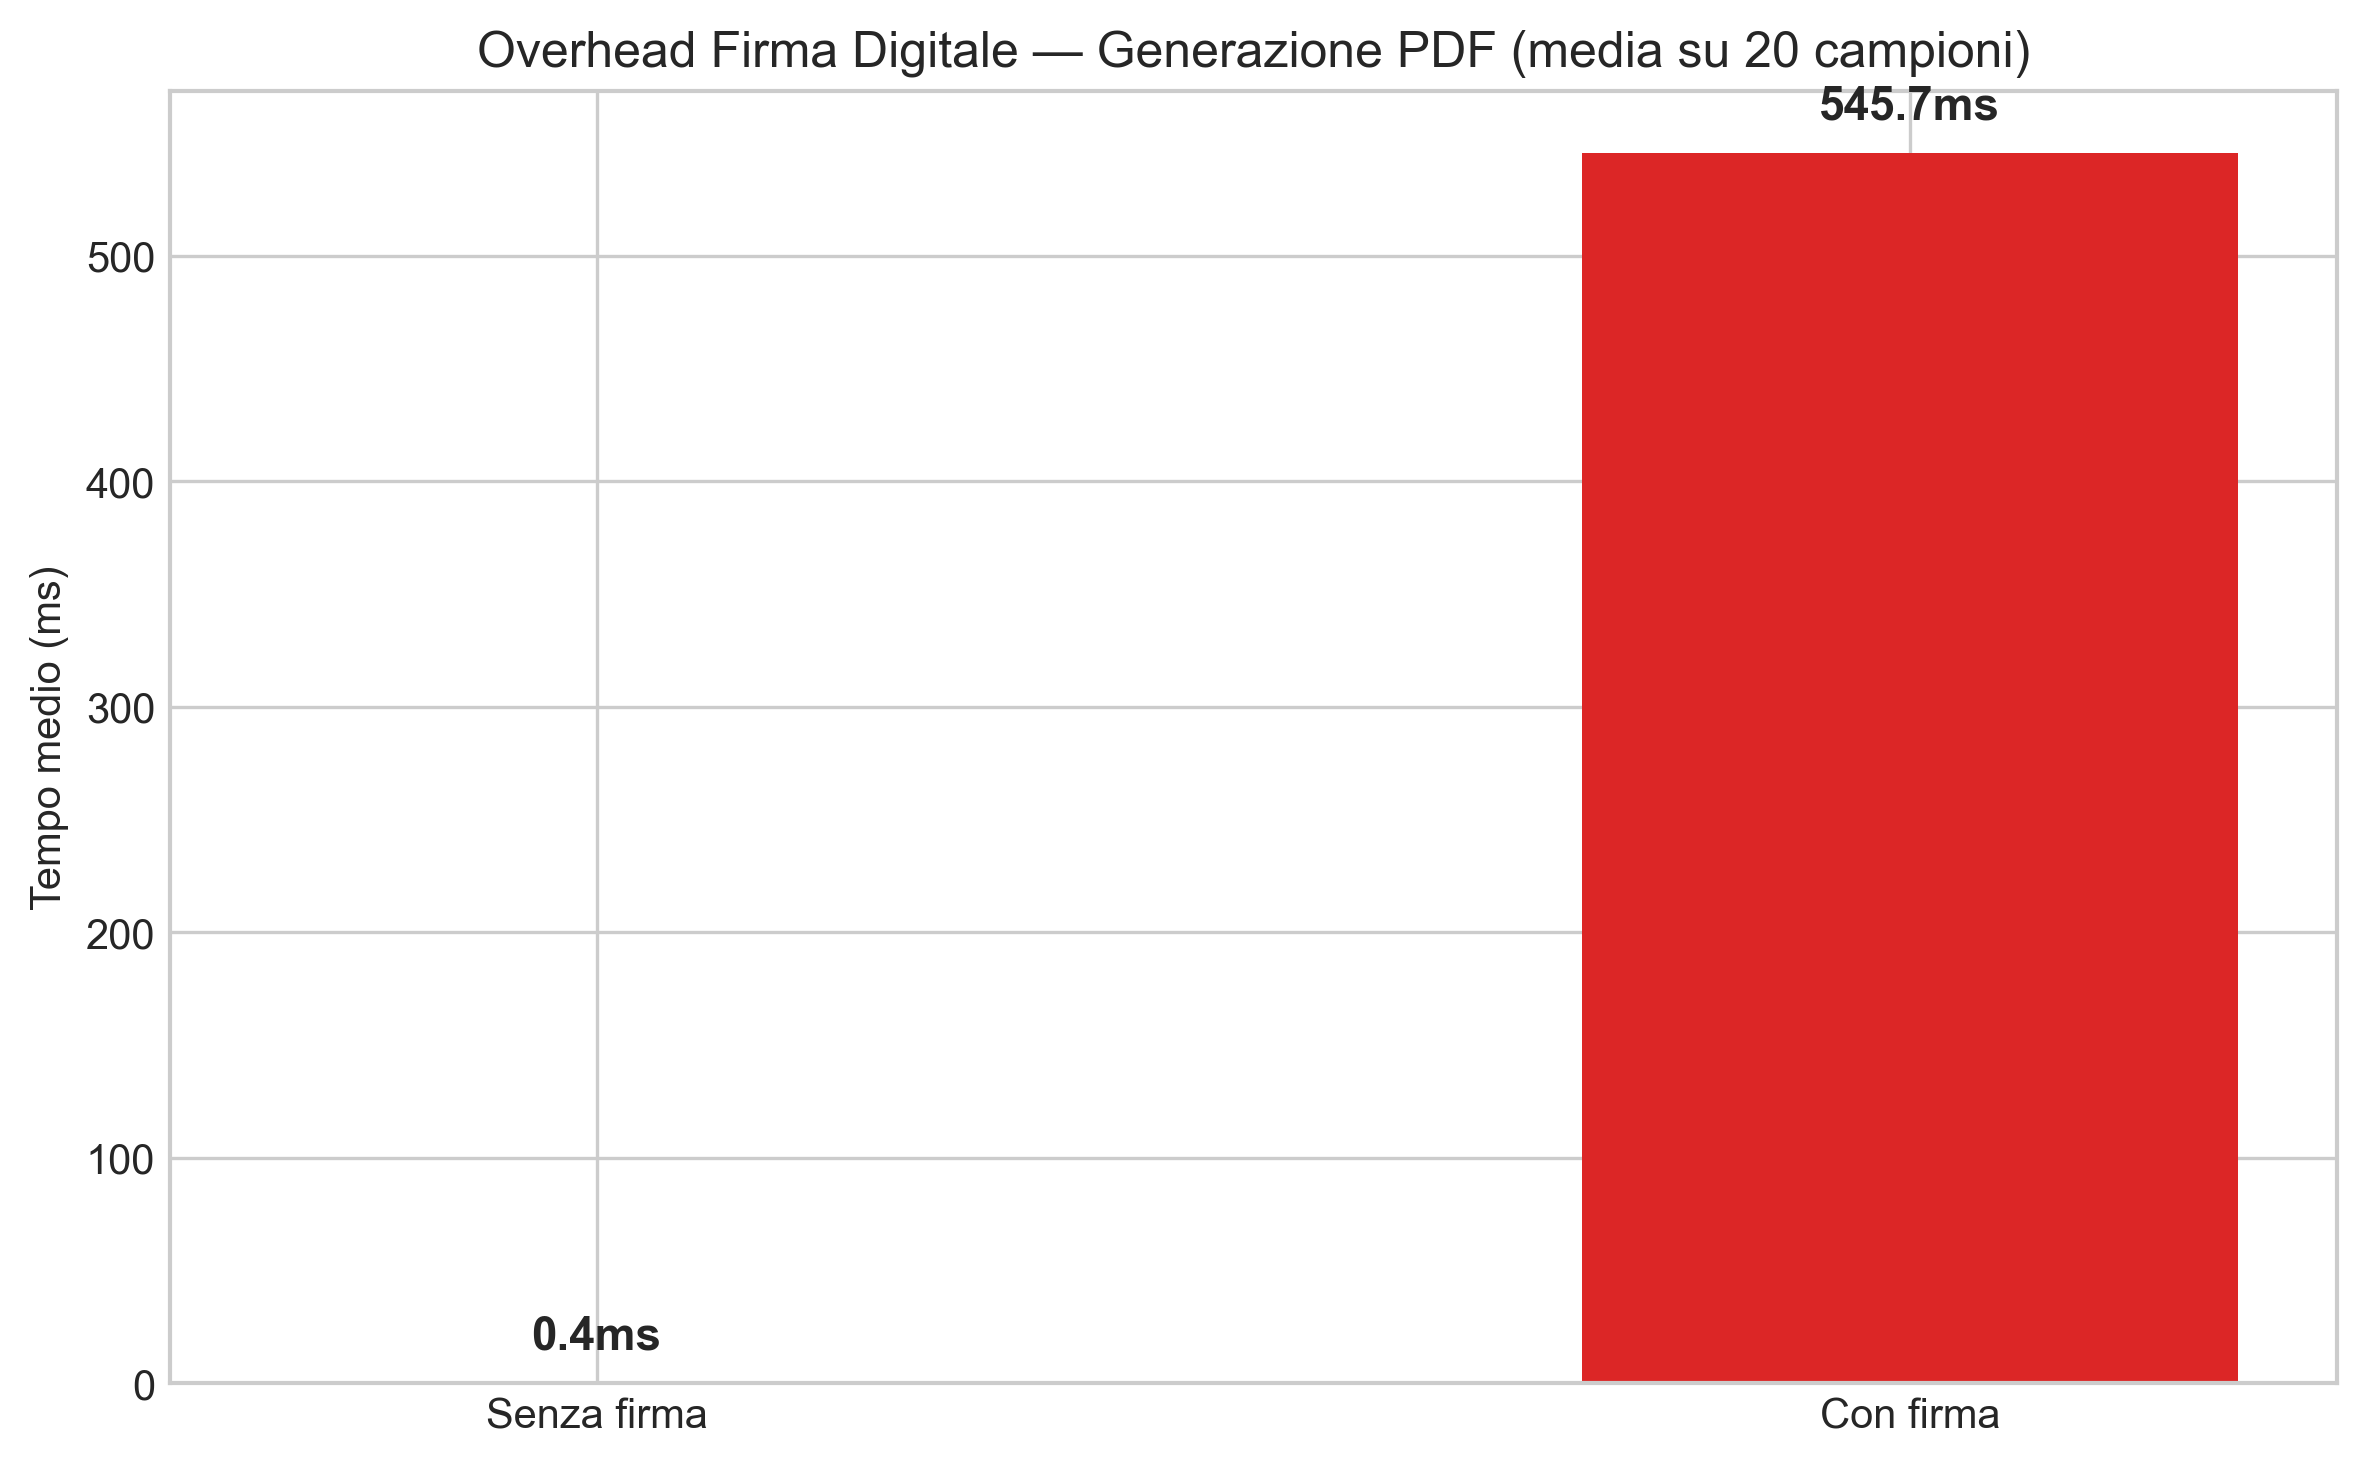
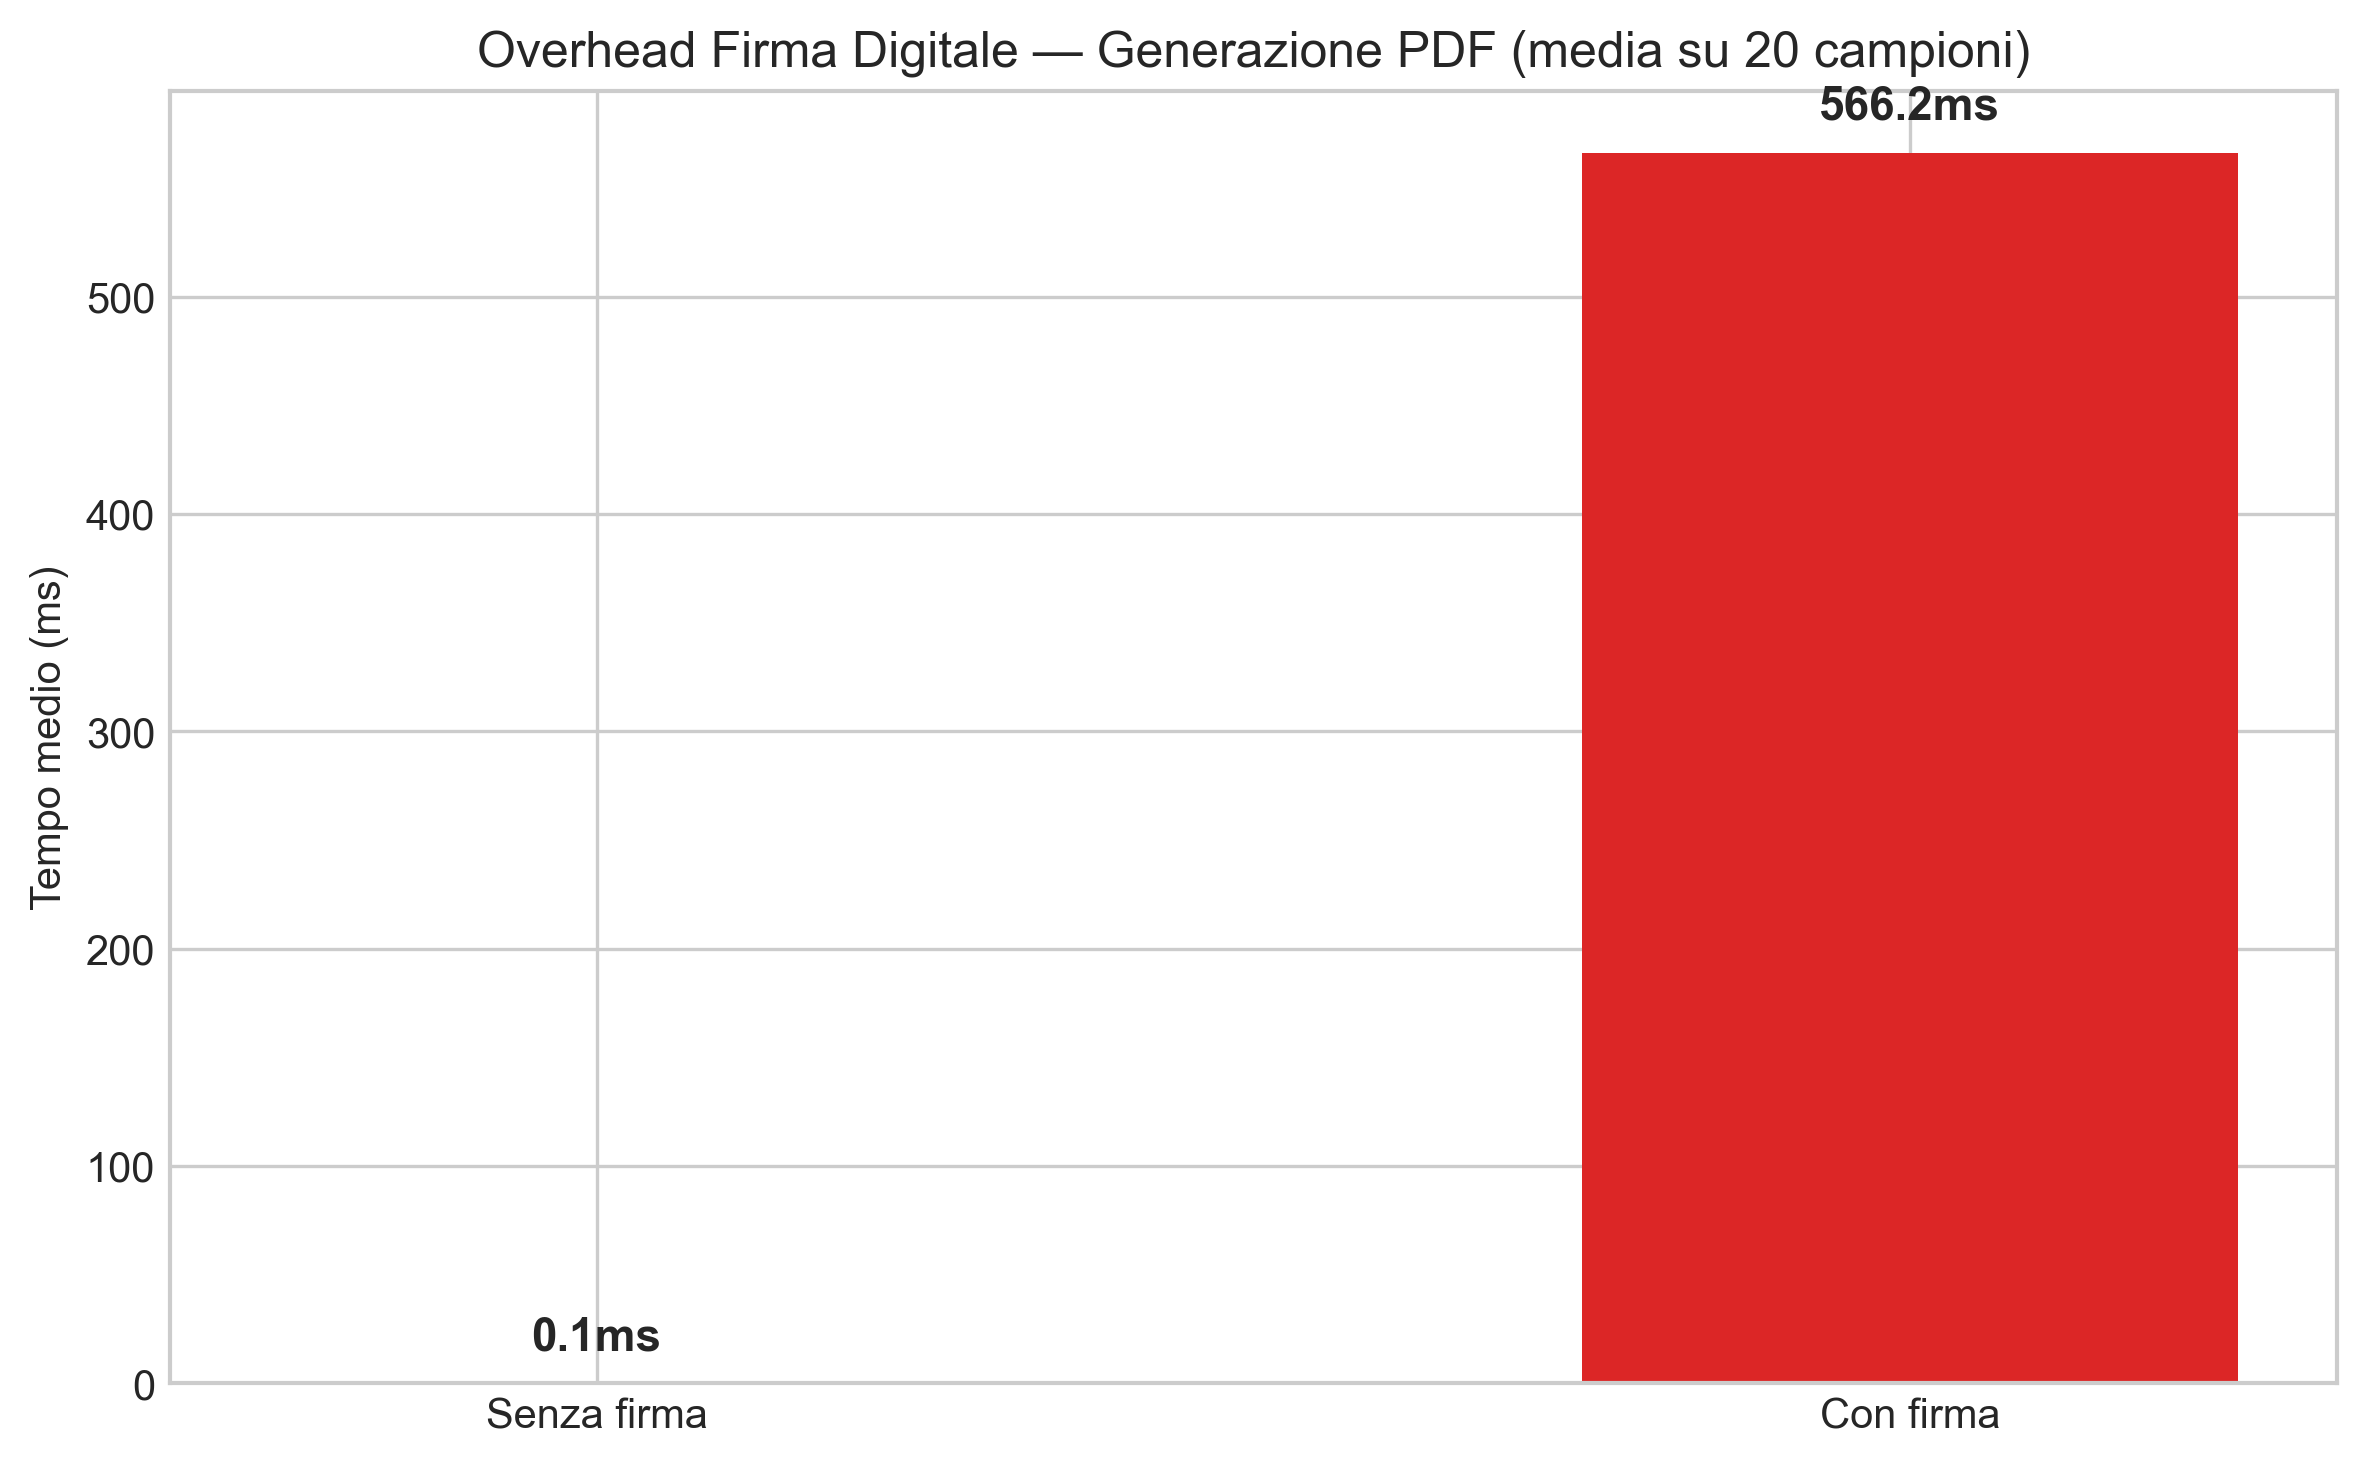
rieseguito benchmark con misurazioni reali del tempo di detection

diff --git a/docs/EXPERIMENT_RESULTS.md b/docs/EXPERIMENT_RESULTS.md
@@ -1,6 +1,6 @@
 # Risultati Esperimenti — Cloud Active Defense
 
-*Generato automaticamente da benchmark.py — 2026-05-14 18:15:04*
+*Generato automaticamente da benchmark.py — 2026-05-14 18:24:59*
 
 ---
 
@@ -12,9 +12,9 @@ caldo); le successive 10 rappresentano il regime stazionario ("warm").
 
 | Metrica | Valore |
 |---|---|
-| Cold-start | 0.000 s |
-| Warm — media (10 invocazioni) | 0.000 s |
-| Warm — deviazione standard | 0.000 s |
+| Cold-start | 4.520 s |
+| Warm — media (10 invocazioni) | 2.677 s |
+| Warm — deviazione standard | 0.666 s |
 
 ![Detection Time](charts/detection_time.png)
 
@@ -54,9 +54,9 @@ generazione PDF sottostante.
 
 | Condizione | Tempo medio |
 |---|---|
-| Senza firma | 0.4 ms |
-| Con firma RSA-2048 | 545.7 ms |
-| Overhead netto | 545.3 ms ([phone redacted].0%) |
+| Senza firma | 0.1 ms |
+| Con firma RSA-2048 | 566.2 ms |
+| Overhead netto | 566.1 ms ([phone redacted].3%) |
 
 ![Overhead Firma](charts/signature_overhead.png)
 